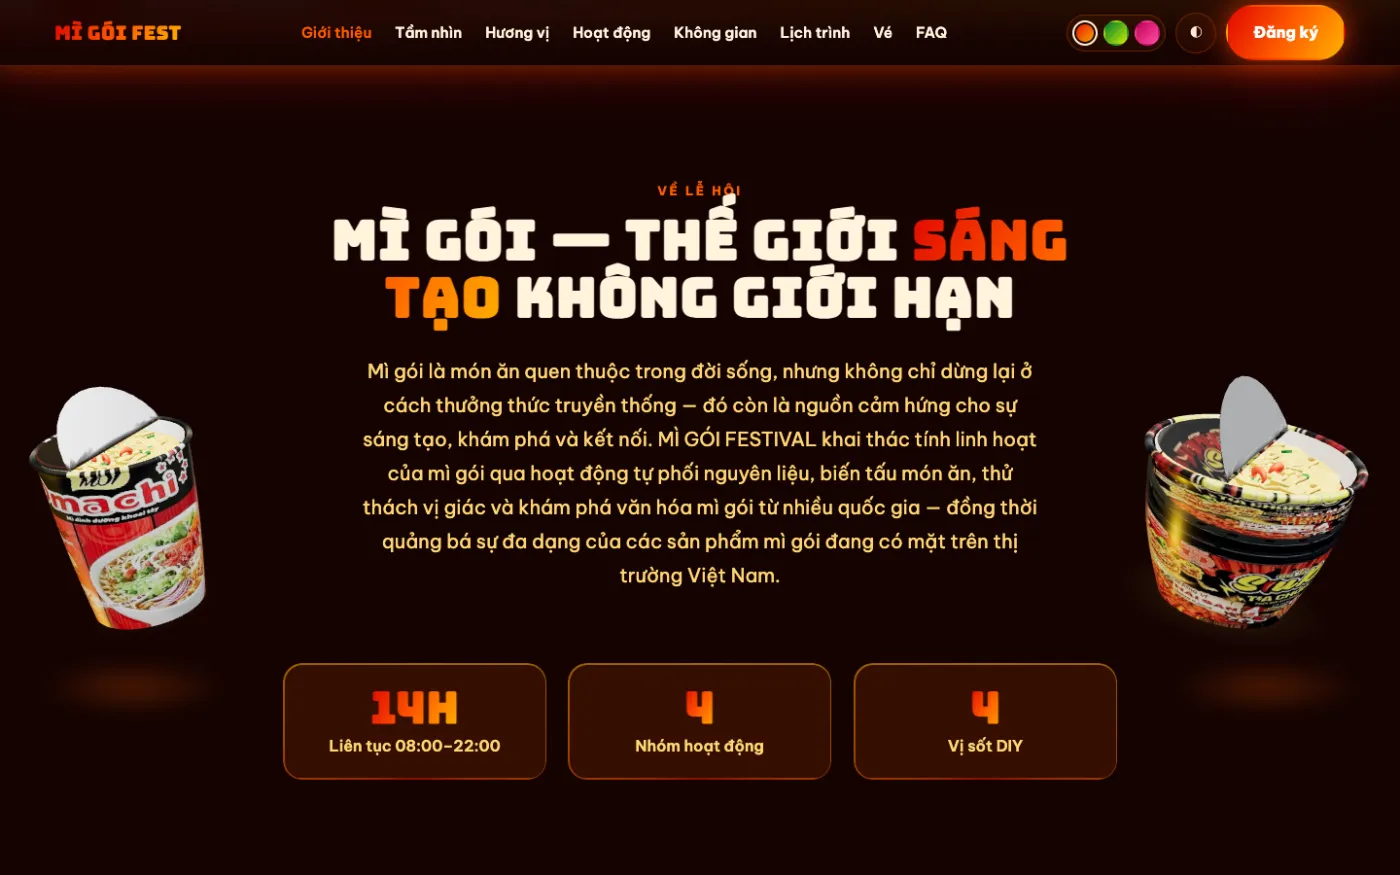
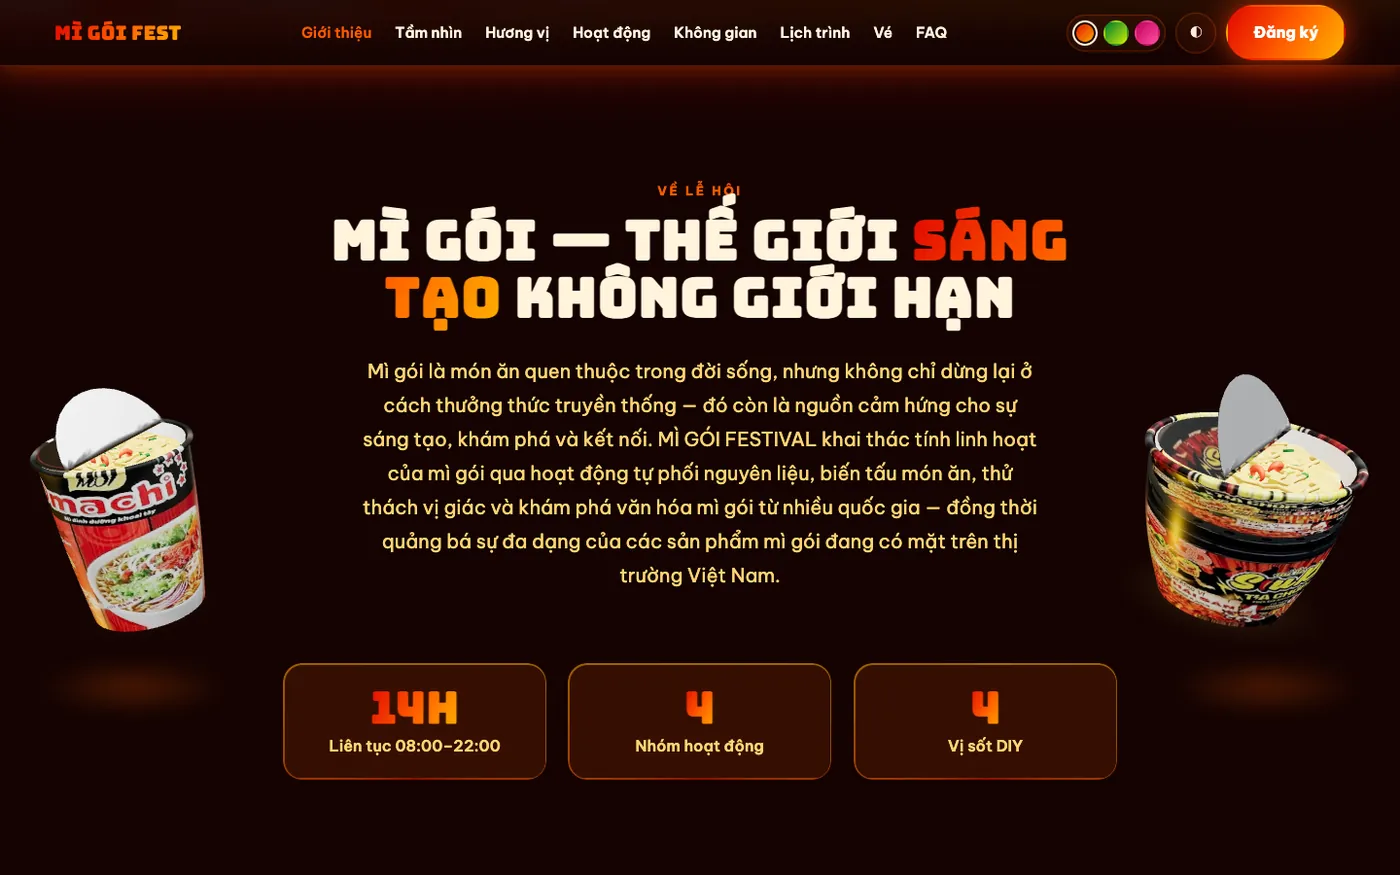
README: describe half-peeled lid, re-export shots

Changed region(s): [[0.7986, 0.432, 0.9829, 0.7406], [0.0307, 0.4629, 0.1536, 0.7406]]

diff --git a/README.md b/README.md
@@ -27,7 +27,7 @@ Landing page demo cho lễ hội trải nghiệm mì gói · 16.12.2026 · ĐH H
 
 | | |
 |---|---|
-| **Hero căn giữa** | Tên “MÌ GÓI FESTIVAL” trên cùng, ngay dưới là ly mì 3D lớn ở giữa (nắp foil bóc hé, hơi nước), rồi tới đếm ngược và nút đăng ký. |
+| **Hero căn giữa** | Tên “MÌ GÓI FESTIVAL” trên cùng, ngay dưới là ly mì 3D lớn ở giữa (nắp foil bóc dở lộ sợi mì + topping, hơi nước), rồi tới đếm ngược và nút đăng ký. |
 | **Model 3D sản phẩm thật** | Ly/gói/tô mì dựng từ ảnh bao bì thật: nhãn quấn 360° theo tỉ lệ thật, viền mép cuộn, vật liệu giấy phủ lớp bóng nhẹ. |
 | **Model hai bên theo section** | Mỗi section có 2 khung model ở hai lề (`.product-slot`), mờ dần hiện ra khi vào màn hình và biến mất khi rời. |
 | **Nội dung từ tài liệu khách** | Concept, theme, tầm nhìn–sứ mệnh–mục tiêu (#mission), 4 nhóm hoạt động, khu vực sự kiện (#zones), lịch trình, FAQ — chỗ chưa chốt ghi “Sắp công bố”, không bịa giá. |
